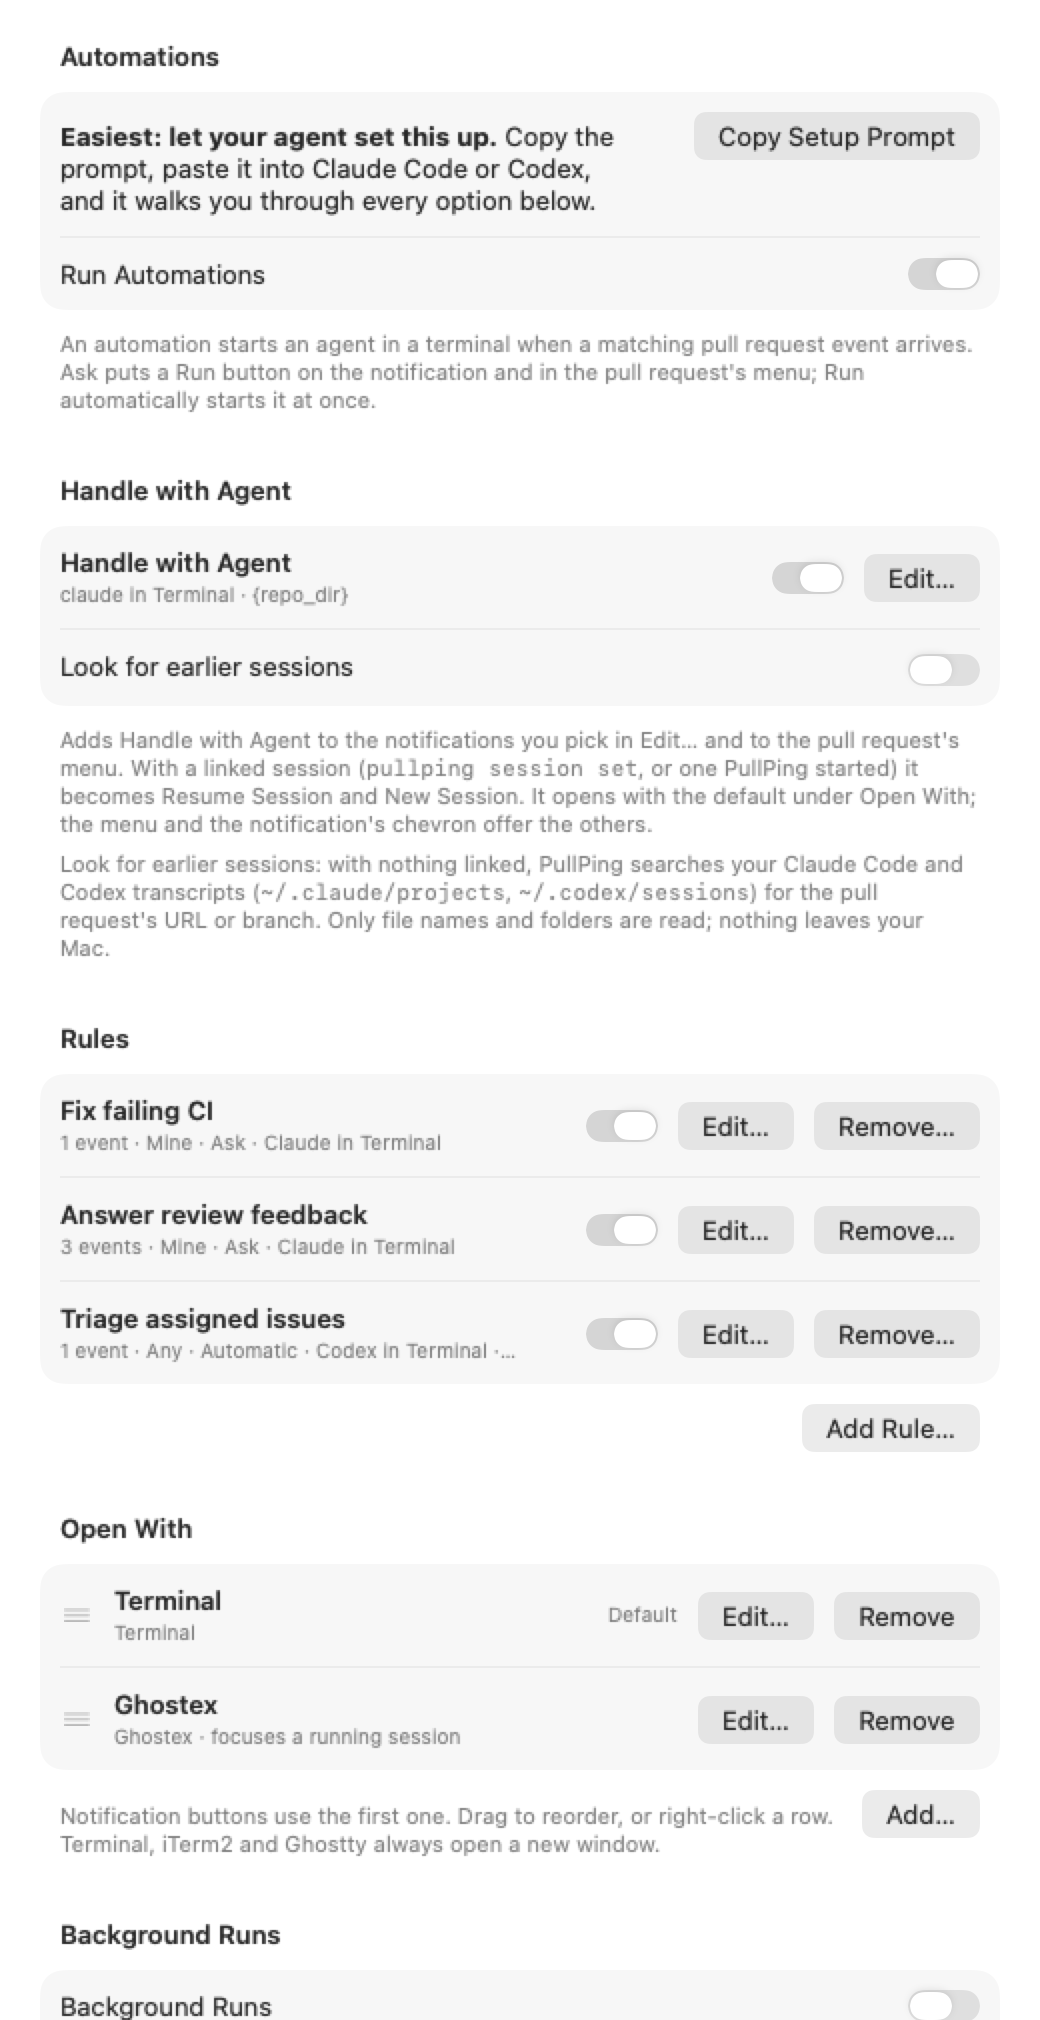
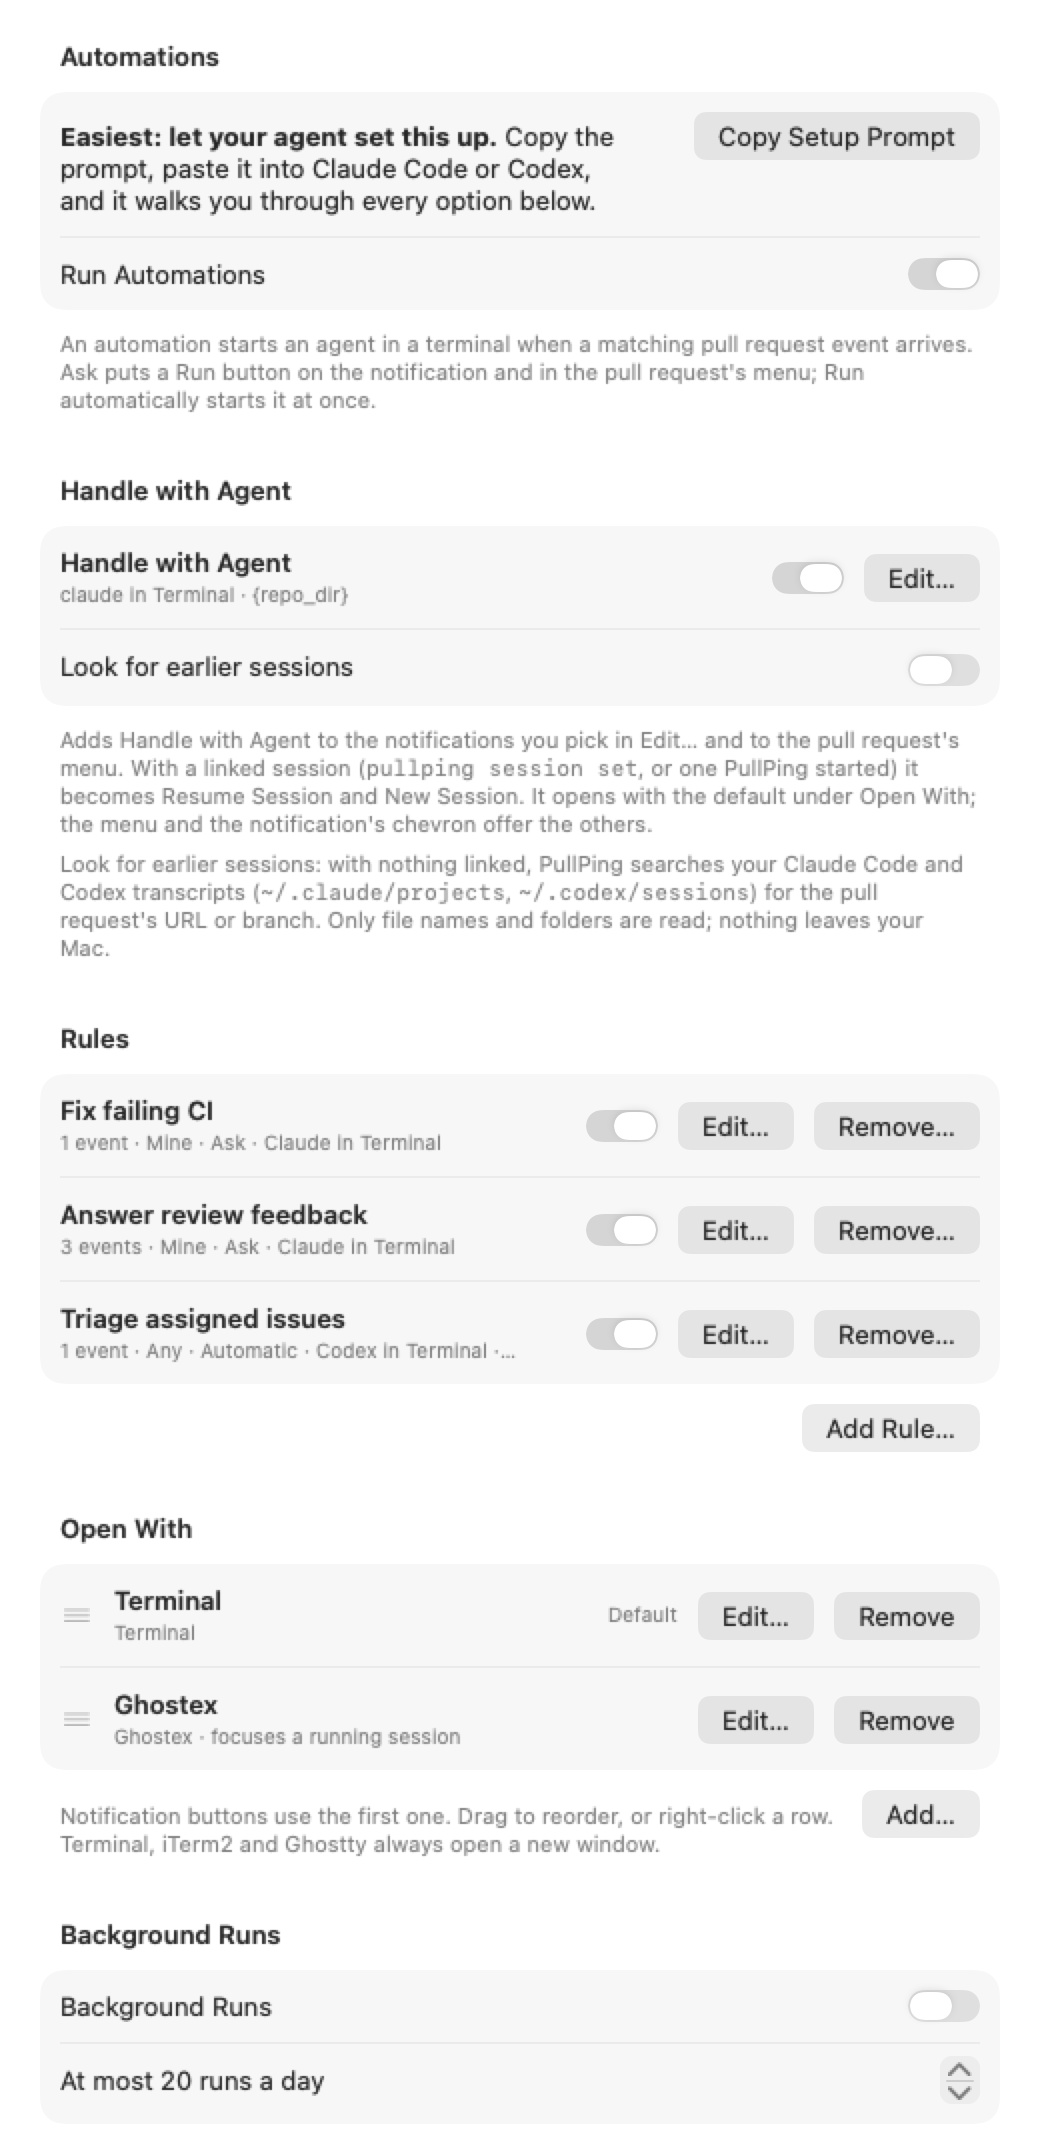
docs(screenshots): rule editor from the top, Automations down to Background Runs, no dark main window
- rule-editor.png: rendered from the top (560x960, no scroll): title, events, scope, mode,
  agent, command, Open in, working directory and session; ends before Prompt.
- settings-automations.png: 60 pt taller, so it ends after the Background Runs group.
- main-window-dark.png: removed and no longer rendered; offscreen, the dark sidebar's
  vibrant text renders black on near-black. It was referenced nowhere.

diff --git a/Tests/PullPingScreenshotTests/ScreenshotRenderTests.swift b/Tests/PullPingScreenshotTests/ScreenshotRenderTests.swift
@@ -24,7 +24,8 @@ final class ScreenshotRenderTests: XCTestCase {
                 try render(view, size: size, dark: dark, to: URL(fileURLWithPath: dir).appendingPathComponent("\(name)\(suffix).png"))
             }
             try save("status-panel", StatusPanelView(store: store), NSSize(width: 380, height: 520))
-            try save("main-window", MainView(store: store), NSSize(width: 1100, height: 680))
+            // Light only: offscreen, the dark sidebar's vibrant text renders black on near-black.
+            if !dark { try save("main-window", MainView(store: store), NSSize(width: 1100, height: 680)) }
             try save("notification-banner", panel(PanelModel(pr: pr("PR_1"), events: Array(pr("PR_1").events.suffix(1)), alert: false, account: "@dana")),
                      NSSize(width: Theme.panelWidth + 40, height: Theme.panelHeight + 40))
             try save("notification-alert", panel(PanelModel(pr: pr("PR_2"), events: pr("PR_2").events, alert: true, account: "@dana")),
@@ -79,9 +80,9 @@ final class ScreenshotRenderTests: XCTestCase {
         }
         store.setFindSessions(false)  // reloads the store's copy
         store.mutateRepoFolders { $0.roots = ["~/Code", "~/src"] }  // also reloads the store's copy
-        try save("settings-automations", AutomationsTab(store: store), NSSize(width: 520, height: 1010))  // down to the rules and Open With
-        // Scrolled to its end (agent, session, prompt); 32 pt taller than the sheet so the top edge falls between sections.
-        try render(RuleEditorSheet(store: store, rule: review), size: NSSize(width: 560, height: 672), dark: false, scrollToEnd: true,
+        try save("settings-automations", AutomationsTab(store: store), NSSize(width: 520, height: 1070))  // down to the rules, Open With and the Background Runs group
+        // From the top (title, events, scope) down to the agent and session rows; the bottom edge falls before Prompt.
+        try render(RuleEditorSheet(store: store, rule: review), size: NSSize(width: 560, height: 960), dark: false,
                    to: URL(fileURLWithPath: dir).appendingPathComponent("rule-editor.png"))
         let pr = { store.tracked.prs[$0]! }
         let handle = PanelModel(pr: pr("PR_9"), events: Array(pr("PR_9").events.suffix(1)), alert: false, account: "@dana",
